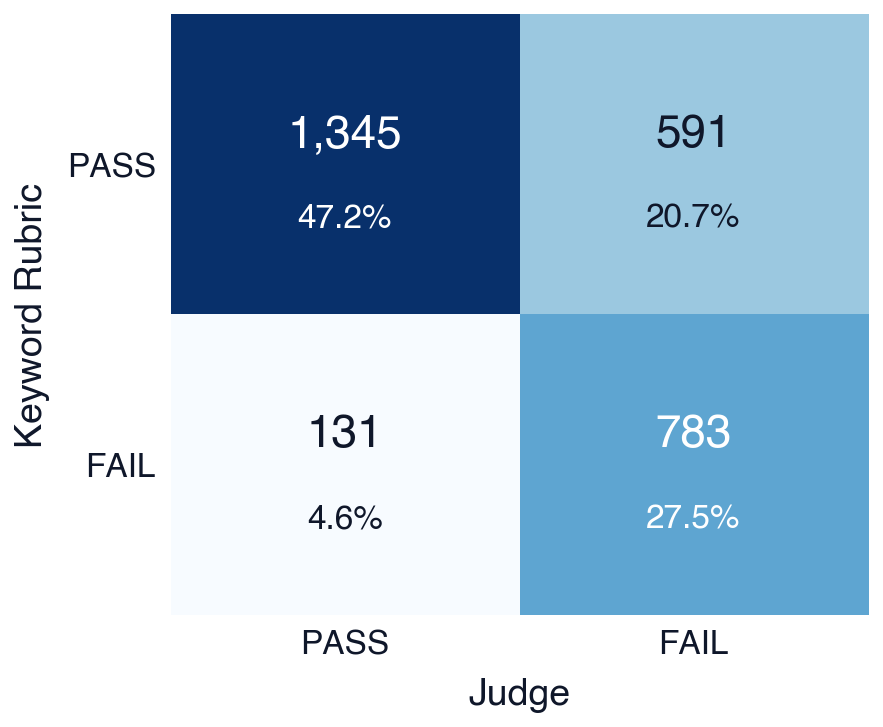
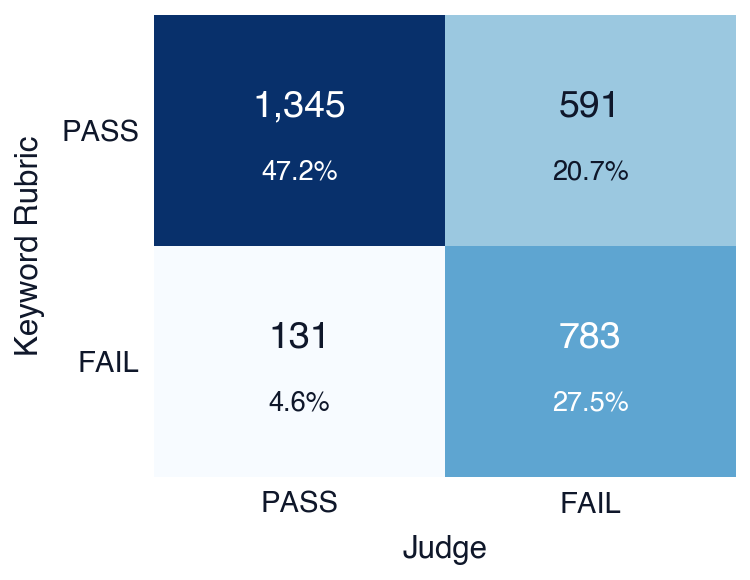
Fig. 2/3/4 reorder: Krippendorff first, shrink Fig. 3 to close gap
Reorder so Krippendorff alpha table moves to Fig. 2 (placed
immediately after rho/alpha sentence in Section IV.C), pushing
disagreement matrix to Fig. 3 and failure taxonomy to Fig. 4.
Calibration stays Fig. 5.

The reorder stacks three figures consecutively in Section IV.C and
Section IV.D, which forced refs onto a seventh page. Applied Option
B: regenerated disagreement_matrix.png at figsize=(2.5, 2.0)
instead of (3.0, 2.6), with bumped font sizes (cell counts 11 -> 9,
percentages 8 -> 6.5, tick/label 8 -> 7) to keep cells legible at
the smaller intrinsic size. .tex scaled to 0.65 columnwidth.

Page count: 6.
Figs 4 (failure taxonomy) and 5 (calibration) untouched.

diff --git a/paper/sections/05_results.tex b/paper/sections/05_results.tex
@@ -45,6 +45,31 @@ is $\rho = 0.602$; Krippendorff $\alpha = 0.573$ (95\% CI
 $[0.516, 0.622]$, 1{,}000-resample bootstrap;
 Fig.~\ref{fig:krippendorff-strip}).
 
+\begin{figure}[H]
+  \centering
+  \resizebox{\columnwidth}{!}{%
+  \begin{tabular}{lrcl}
+    \toprule
+    \textbf{Dimension} & \textbf{$\alpha$} & \textbf{95\% CI} & \textbf{Band} \\
+    \midrule
+    Method Structure       & $-0.009$ & $[-0.072,\ 0.062]$  & near chance \\
+    Assumption Compliance  & $\phantom{-}0.573$  & $[\phantom{-}0.516,\ 0.622]$   & questionable \\
+    Reasoning Quality      & $-0.125$ & $[-0.197,\ -0.059]$ & near/below chance \\
+    \bottomrule
+  \end{tabular}%
+  }
+  \caption{Krippendorff's $\alpha$ across three judged dimensions
+           on $n = 750$ paired outputs (1{,}000-resample bootstrap
+           CI). Assumption-compliance $\alpha = 0.573$ is
+           ``questionable'' ($\alpha < 0.667$); the other two cluster
+           near chance. Per-dimension Spearman correlations:
+           method structure $\rho = 0.004$, reasoning quality
+           $\rho = 0.180$, assumption compliance $\rho = 0.602$.
+           The three-ranking divergence is a within-model
+           cross-metric finding independent of inter-rater agreement.}
+  \label{fig:krippendorff-strip}
+\end{figure}
+
 On the combined base-plus-perturbation pool ($n=2{,}850$ = 750
 base + 2{,}100 perturbation rows, eligibility scoped to tasks with
 at least one required assumption check), $20.7\%$ of responses
@@ -66,7 +91,7 @@ articulation.
 
 \begin{figure}[H]
   \centering
-  \includegraphics[width=0.82\columnwidth]{figures/disagreement_matrix.png}
+  \includegraphics[width=0.65\columnwidth]{figures/disagreement_matrix.png}
   \caption{Keyword-vs-judge disagreement matrix on $n=2{,}850$
            eligible runs. Keyword-PASS / judge-FAIL outnumbers
            keyword-FAIL / judge-PASS by $4.5\times$ (591 vs 131):
@@ -109,31 +134,6 @@ are assumption violations. The model ranking first on robustness
 also omits assumption articulation most --- robustness here
 reflects absence of articulated reasoning to vary, not stable
 reasoning.
-
-\begin{figure}[H]
-  \centering
-  \resizebox{\columnwidth}{!}{%
-  \begin{tabular}{lrcl}
-    \toprule
-    \textbf{Dimension} & \textbf{$\alpha$} & \textbf{95\% CI} & \textbf{Band} \\
-    \midrule
-    Method Structure       & $-0.009$ & $[-0.072,\ 0.062]$  & near chance \\
-    Assumption Compliance  & $\phantom{-}0.573$  & $[\phantom{-}0.516,\ 0.622]$   & questionable \\
-    Reasoning Quality      & $-0.125$ & $[-0.197,\ -0.059]$ & near/below chance \\
-    \bottomrule
-  \end{tabular}%
-  }
-  \caption{Krippendorff's $\alpha$ across three judged dimensions
-           on $n = 750$ paired outputs (1{,}000-resample bootstrap
-           CI). Assumption-compliance $\alpha = 0.573$ is
-           ``questionable'' ($\alpha < 0.667$); the other two cluster
-           near chance. Per-dimension Spearman correlations:
-           method structure $\rho = 0.004$, reasoning quality
-           $\rho = 0.180$, assumption compliance $\rho = 0.602$.
-           The three-ranking divergence is a within-model
-           cross-metric finding independent of inter-rater agreement.}
-  \label{fig:krippendorff-strip}
-\end{figure}
 
 \subsection{Calibration Across Extraction Methods}
 

diff --git a/code/visualization/paper_figures/disagreement_matrix_paper.py b/code/visualization/paper_figures/disagreement_matrix_paper.py
@@ -58,7 +58,7 @@ def _apply_theme():
 
 def main():
     _apply_theme()
-    fig, ax = plt.subplots(figsize=(3.0, 2.6), dpi=300, facecolor=PRINT_BG)
+    fig, ax = plt.subplots(figsize=(2.5, 2.0), dpi=300, facecolor=PRINT_BG)
 
     im = ax.imshow(COUNTS, cmap="Blues", aspect="auto")
 
@@ -72,17 +72,17 @@ def main():
             text_color = "white" if cnt > 0.55 * vmax else PRINT_FG
             ax.text(j, i - 0.10, f"{cnt:,}",
                     ha="center", va="center",
-                    color=text_color, fontsize=11, fontweight="bold")
+                    color=text_color, fontsize=9, fontweight="bold")
             ax.text(j, i + 0.18, f"{pct:.1f}%",
                     ha="center", va="center",
-                    color=text_color, fontsize=8)
+                    color=text_color, fontsize=6.5)
 
     ax.set_xticks([0, 1])
     ax.set_yticks([0, 1])
-    ax.set_xticklabels(["PASS", "FAIL"], fontsize=8)
-    ax.set_yticklabels(["PASS", "FAIL"], fontsize=8)
-    ax.set_xlabel("Judge", fontsize=9, color=PRINT_FG)
-    ax.set_ylabel("Keyword Rubric", fontsize=9, color=PRINT_FG)
+    ax.set_xticklabels(["PASS", "FAIL"], fontsize=7)
+    ax.set_yticklabels(["PASS", "FAIL"], fontsize=7)
+    ax.set_xlabel("Judge", fontsize=7.5, color=PRINT_FG)
+    ax.set_ylabel("Keyword Rubric", fontsize=7.5, color=PRINT_FG)
 
     ax.tick_params(axis="both", which="both", length=0)
     for s in ax.spines.values():